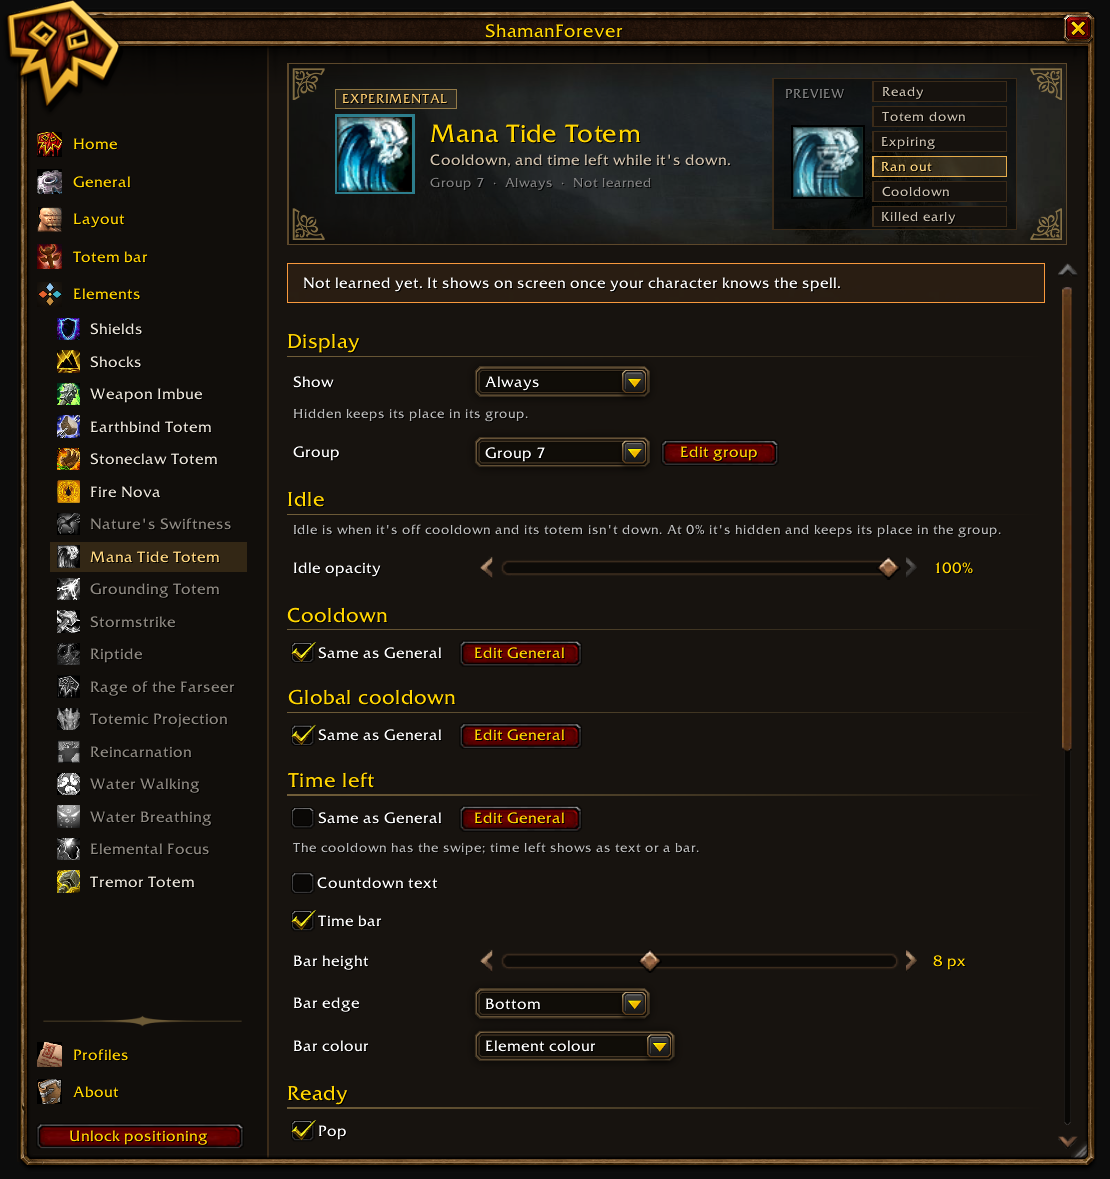
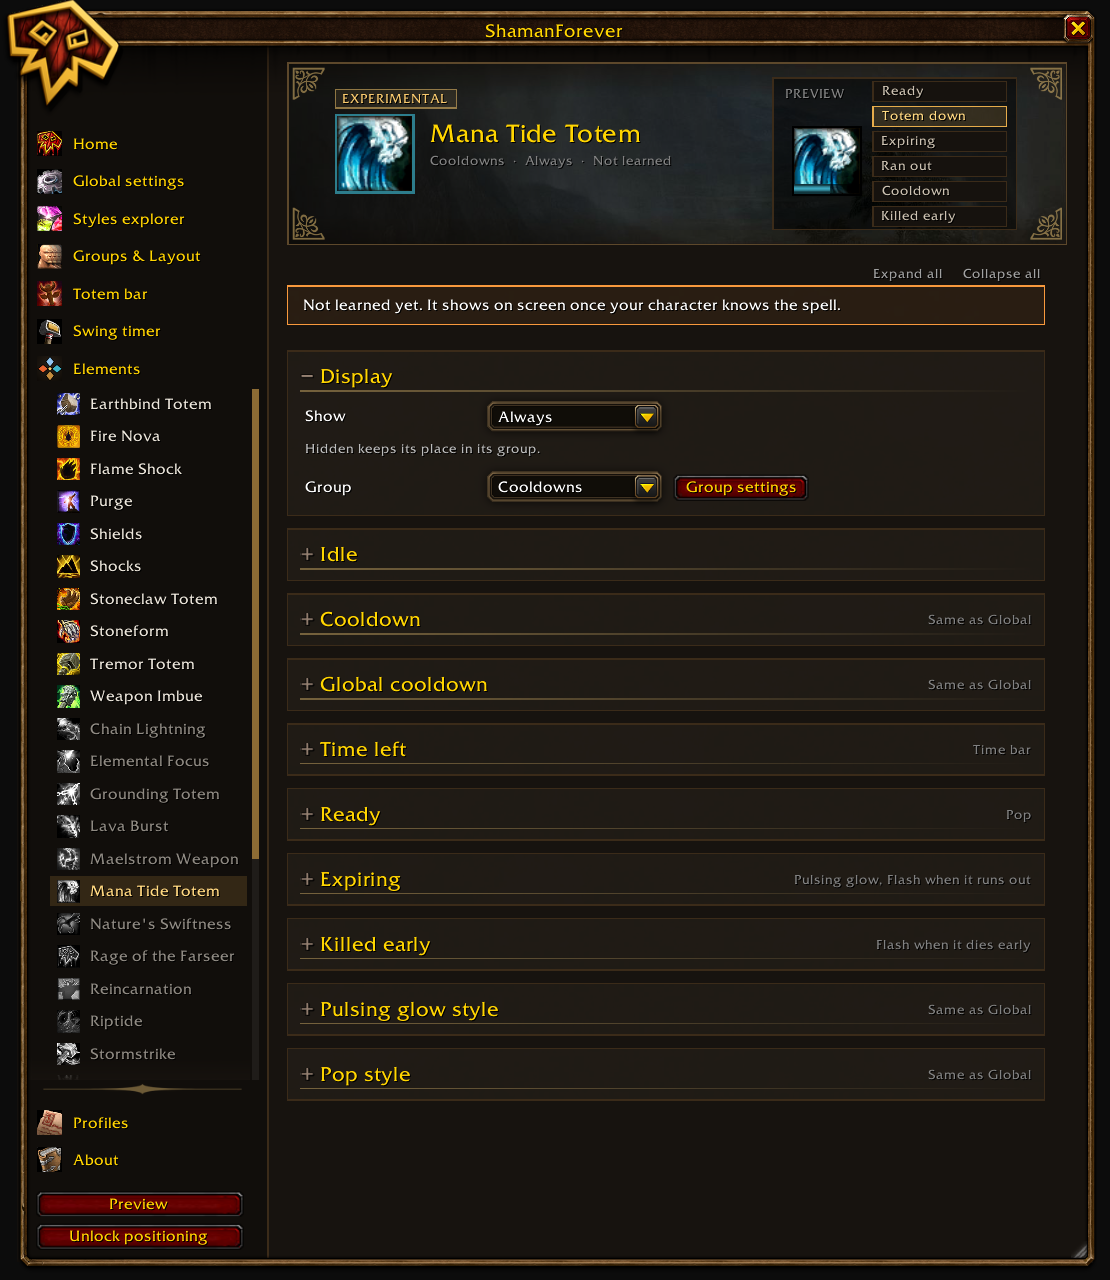
Gallery: every options page retaken, Global settings and the Styles explorer added

diff --git a/docs/gallery/README.md b/docs/gallery/README.md
@@ -2,11 +2,11 @@
 
 Screenshots of ShamanForever on the World of Warcraft: Forever beta: the HUD in game, and the
 options window. The HUD shots are from 30 September 2026 and include features still in testing;
-the options window shots are from 0.8.0. Features marked experimental aren't fully
+the options window shots are from 1 October 2026. Features marked experimental aren't fully
 tested yet. These images are not part of the addon download.
 
-The options window shots are taken automatically in game, which is itself experimental: a shot can
-start at an odd scroll position, and a few pages may be missing or out of order.
+The options window shots are taken automatically in game, one page at a time in the order of the
+window's list.
 
 ## On screen
 
@@ -20,76 +20,108 @@ start at an odd scroll position, and a few pages may be missing or out of order.
 
 ## Home
 
-![Home: version, warnings and where to send feedback](home.png)
+![Home](home.png)
 
 ## Global settings
 
-![Global settings: icon size, border and timers](general.png)
+![Global settings](global-settings.png)
 
-![Global settings: pulsing glow and pop styles](general-glow-pop.png)
+![Global settings (part 2)](global-settings-part-2.png)
+
+![Global settings (part 3)](global-settings-part-3.png)
+
+## Styles explorer
+
+![Styles explorer](styles-explorer.png)
+
+![Styles explorer (part 2)](styles-explorer-part-2.png)
 
 ## Groups & Layout
 
-![Groups & Layout: the groups, each with its elements and settings](layout.png)
+![Groups & Layout](layout.png)
 
 ## Totem bar
 
-![Totem bar options](totem-bar.png)
+![Totem bar](totem-bar.png)
 
-![Totem bar: expiring, killed early, glow and pop styles](totem-bar-effects.png)
+![Totem bar (part 2)](totem-bar-part-2.png)
+
+## Swing timer
+
+![Swing timer](swing-timer.png)
 
 ## Elements
 
-![Every element, its group and when it shows](elements.png)
+![Elements](elements.png)
 
-## Shields
+## Element pages
 
-![Shields options](shields.png)
+![Earthbind Totem](earthbind-totem.png)
 
-## Shocks
+![Fire Nova](fire-nova.png)
 
-![Shocks options](shocks.png)
+![Flame Shock](flame-shock.png)
 
-## Weapon Imbue
+![Purge](purge.png)
 
-![Weapon Imbue options](weapon-imbue.png)
+![Shields](shields.png)
 
-## Earthbind Totem
+![Shocks](shocks.png)
 
-![Earthbind Totem, killed early](earthbind-totem.png)
+![Stoneclaw Totem](stoneclaw-totem.png)
 
-![Earthbind Totem with its own glow and pop styles](earthbind-totem-styles.png)
+![Stoneform](stoneform.png)
 
-## Fire Nova
+![Tremor Totem](tremor-totem.png)
 
-![Fire Nova with no fire totem down](fire-nova.png)
+![Weapon Imbue](weapon-imbue.png)
 
-## Tremor Totem
+![Chain Lightning](chain-lightning.png)
 
-![Tremor Totem warning](tremor-totem.png)
+![Elemental Focus](elemental-focus.png)
 
-![Tremor Totem: the watchlist of mobs that fear, charm or sleep](tremor-totem-watchlist.png)
+![Grounding Totem](grounding-totem.png)
 
-## Mana Tide Totem (experimental)
+![Lava Burst](lava-burst.png)
 
-![Mana Tide Totem running out](mana-tide-totem.png)
+![Maelstrom Weapon](maelstrom-weapon.png)
 
-## Nature's Swiftness (experimental)
+![Mana Tide Totem](mana-tide-totem.png)
 
-![Nature's Swiftness primed](natures-swiftness.png)
+![Nature's Swiftness](natures-swiftness.png)
 
-## Reincarnation (experimental)
+![Rage of the Farseer](rage-of-the-farseer.png)
 
-![Reincarnation with few Ankhs left](reincarnation.png)
+![Reincarnation](reincarnation.png)
 
-## Water Breathing (experimental)
+![Riptide](riptide.png)
 
-![Water Breathing: under water without it](water-breathing.png)
+![Stormstrike](stormstrike.png)
 
-## Elemental Focus (experimental)
+![Totemic Projection](totemic-projection.png)
 
-![Elemental Focus: Clearcasting up](elemental-focus.png)
+![Water Breathing](water-breathing.png)
+
+![Water Walking](water-walking.png)
+
+![Berserking](berserking.png)
+
+![Blood Fury](blood-fury.png)
+
+![Rapid Regeneration](rapid-regeneration.png)
+
+![Shatter Curse](shatter-curse.png)
+
+![Skysight](skysight.png)
+
+![Walk on Air](walk-on-air.png)
+
+![War Stomp](war-stomp.png)
+
+## Profiles
+
+![Profiles](profiles.png)
 
 ## About
 
-![About: the experimental features, each with a feedback link](about-experimental.png)
+![About](about.png)
